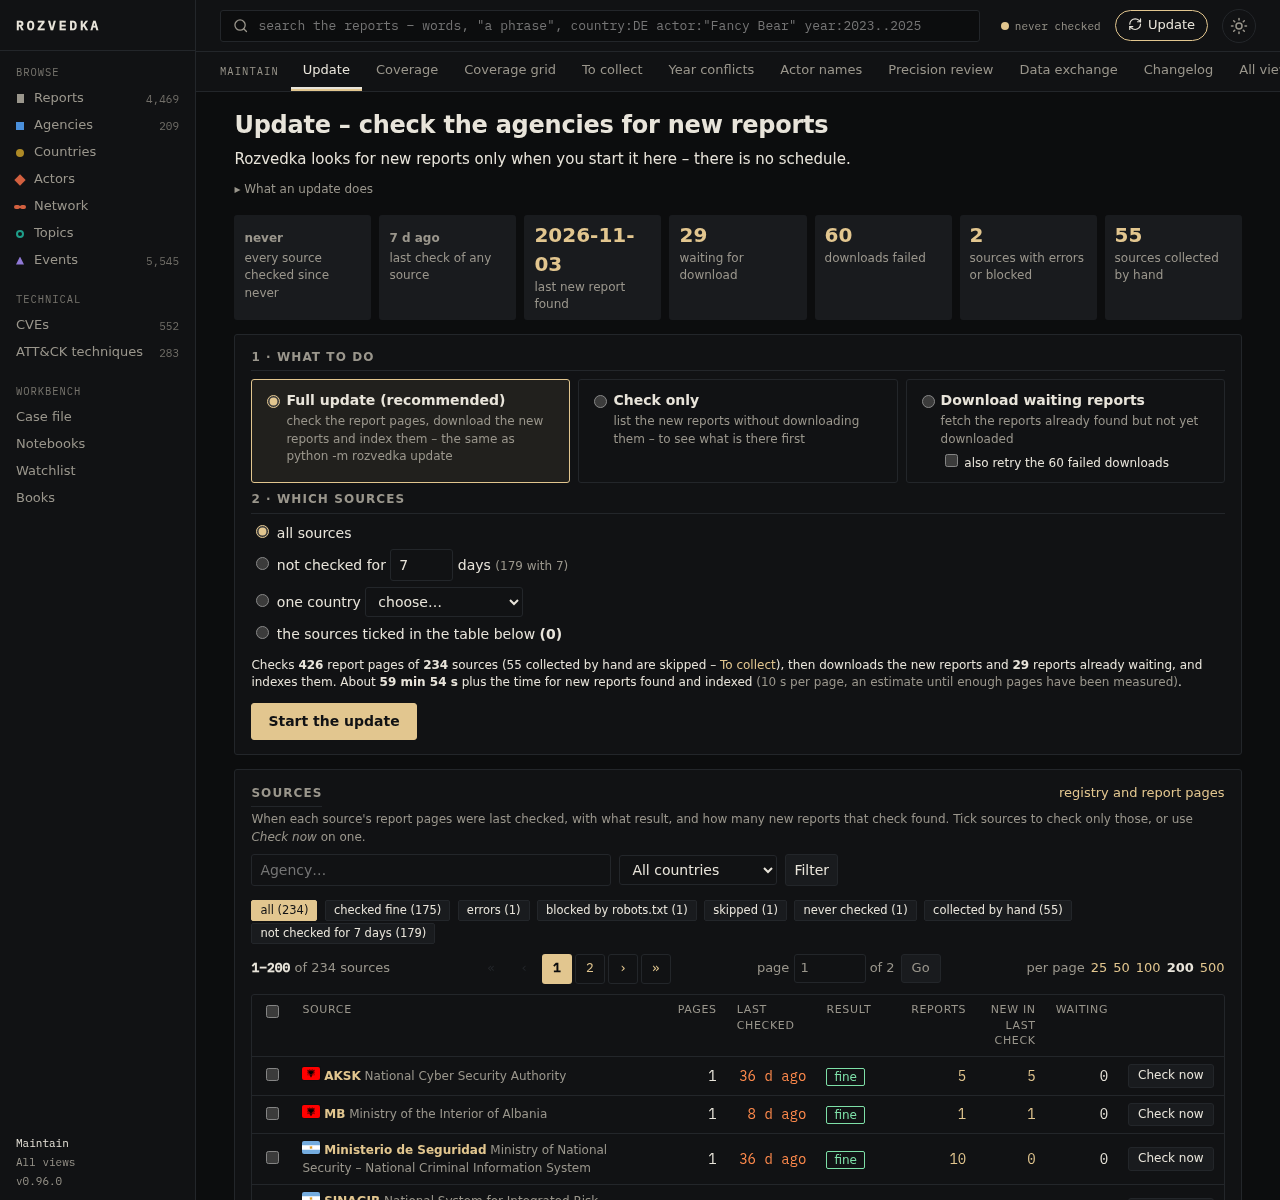
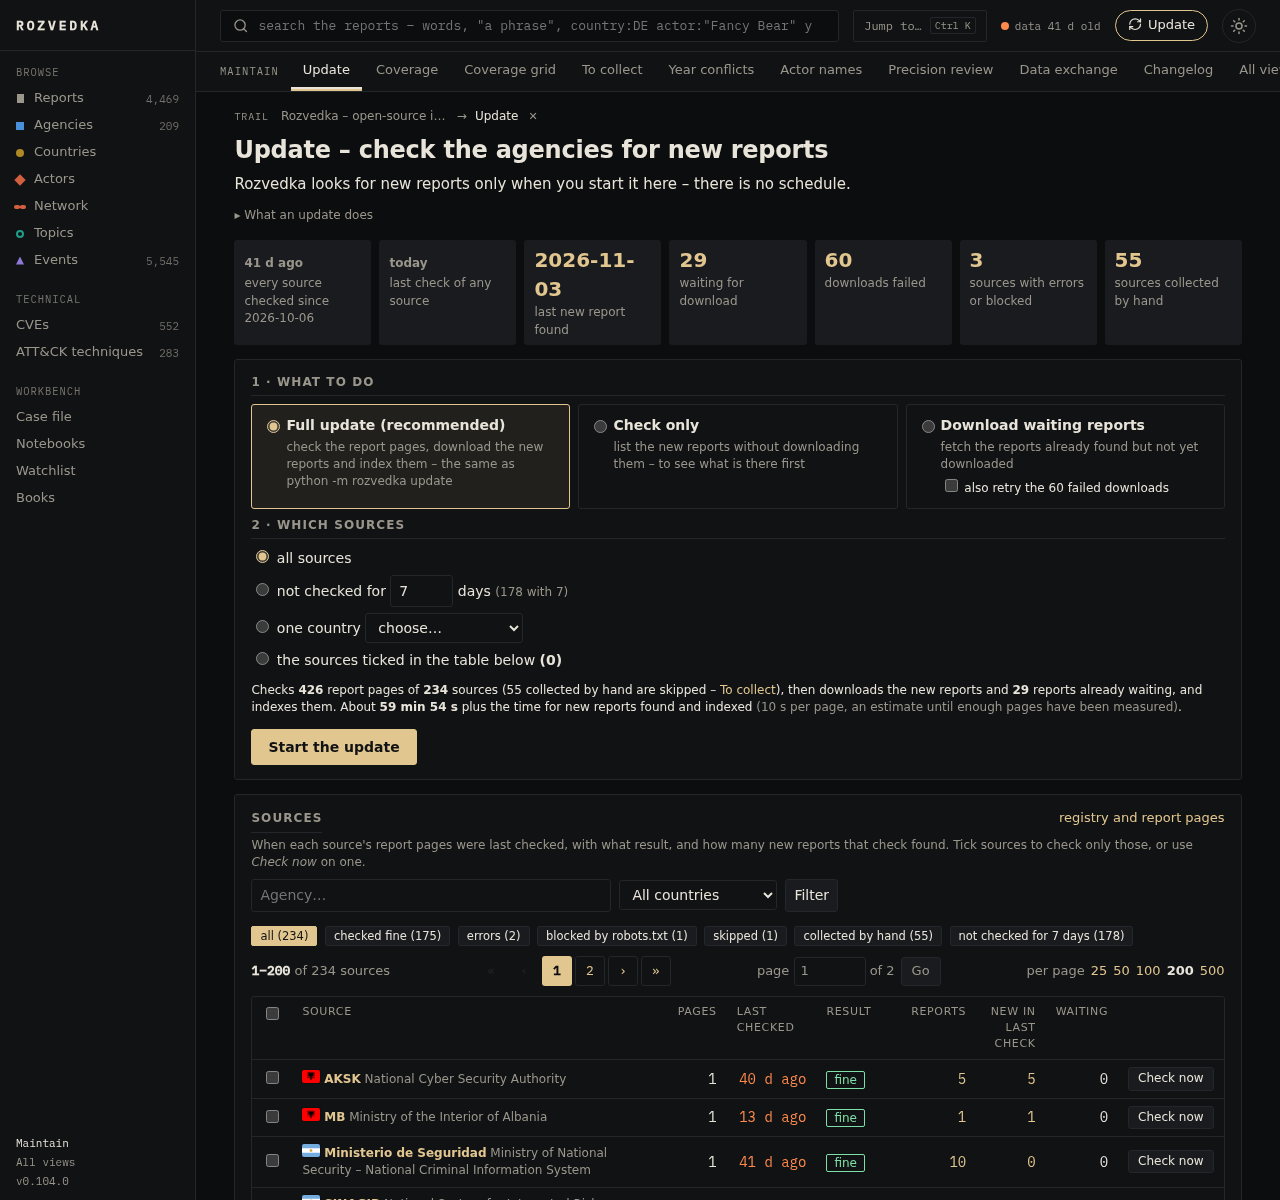
fix: a source never checked no longer blanks the data age (0.104.1)
The header's data age is the oldest of the automatic sources' latest checks; one source never
crawled made it empty, so the header said "never checked". Such sources are now left out and
counted apart (header, Update page). The home line shows both measures, labelled, instead of
only the newest check.

diff --git a/rozvedka/templates/base.html b/rozvedka/templates/base.html
@@ -29,7 +29,7 @@
   {% else %}<span class="top-fill"></span>{% endif %}
   <button type="button" class="jump-open" title="Jump to a country, agency, actor, topic, report or page by its name">Jump to… <kbd>Ctrl K</kbd></button>
   {% set hs = header_status() %}
-  <span class="top-age {{ 'old' if hs.days is not none and hs.days >= 7 }}" title="Every source checked since {{ (hs.last or 'never')[:16].replace('T', ' ') }}; latest check {{ (hs.latest or 'never')[:16].replace('T', ' ') }}"><i aria-hidden="true"></i>{% if hs.days is none %}never checked{% else %}data {{ 'today' if hs.days == 0 else hs.days ~ ' d old' }}{% endif %}</span>
+  <span class="top-age {{ 'old' if hs.days is not none and hs.days >= 7 }}" title="Every source checked since {{ (hs.last or 'never')[:16].replace('T', ' ') }}; latest check {{ (hs.latest or 'never')[:16].replace('T', ' ') }}{% if hs.never %}; {{ hs.never }} source{{ 's' if hs.never != 1 }} never checked (added since){% endif %}"><i aria-hidden="true"></i>{% if hs.days is none %}never checked{% else %}data {{ 'today' if hs.days == 0 else hs.days ~ ' d old' }}{% if hs.never %} · {{ hs.never }} new{% endif %}{% endif %}</span>
   <a class="upd-btn {{ 'on' if request.url.path == '/update' }} {{ 'busy' if hs.job }}" href="/update"
      title="{% if hs.job %}{{ hs.job }} running{% if hs.pct is not none %} – {{ hs.pct }} %{% endif %}{% else %}Check the agencies for new reports{% endif %}">
     <span class="upd-ico" aria-hidden="true">{{ ico("refresh") }}</span> Update{% if hs.job %}

diff --git a/rozvedka/templates/home.html b/rozvedka/templates/home.html
@@ -16,8 +16,11 @@
   <p class="home-what">An open-source intelligence library: the public reports of intelligence, security, cyber and
     civil-protection agencies, with <span class="home-ind">◆ independent think tanks</span> and
     <span class="home-com">■ commercial analysts</span> kept apart from the official ones.</p>
-  <p class="home-state"><i class="{{ 'old' if d.fresh.crawl_days is not none and d.fresh.crawl_days >= 7 }}" aria-hidden="true"></i>last check
-    {% if d.fresh.last_crawl %}<b>{{ d.fresh.last_crawl[:10] }}</b> · {{ d.fresh.crawl_days }} day{{ 's' if d.fresh.crawl_days != 1 }} ago{% else %}<b>never</b>{% endif %}
+  {% set hs = header_status() %}
+  <p class="home-state"><i class="{{ 'old' if hs.days is none or hs.days >= 7 }}" aria-hidden="true"></i>every source checked since
+    {% if hs.last %}<b>{{ hs.last[:10] }}</b> · {{ hs.days }} day{{ 's' if hs.days != 1 }} ago{% else %}<b>never</b>{% endif %}
+    · newest check {% if d.fresh.last_crawl %}<b>{{ d.fresh.last_crawl[:10] }}</b>{% else %}<b>never</b>{% endif %}
+    {%- if hs.never %} · {{ hs.never }} source{{ 's' if hs.never != 1 }} never checked{% endif %}
     · updates run by hand – <a href="/update">Update</a></p>
 </header>
 

diff --git a/rozvedka/templates/update.html b/rozvedka/templates/update.html
@@ -14,7 +14,7 @@
 </details>
 
 <div class="h-counters dx-cards">
-  <a href="#sources"><b>{{ age(since) }}</b><span>every source checked since {{ (since or 'never')[:10] }}</span></a>
+  <a href="#sources"><b>{{ age(since) }}</b><span>every source checked since {{ (since or 'never')[:10] }}{% if never %} · {{ never }} never checked{% endif %}</span></a>
   <a href="#sources"><b>{{ age(fresh.last_crawl) }}</b><span>last check of any source</span></a>
   <a href="/new"><b>{{ (fresh.last_discovered or 'never')[:10] }}</b><span>last new report found</span></a>
   <a href="/documents?status=new"><b>{{ counts.get('new', 0)|num }}</b><span>waiting for download</span></a>

diff --git a/rozvedka/updater.py b/rozvedka/updater.py
@@ -29,10 +29,18 @@ INDEX_STEPS = (("Extracting text and matching topics", "index-topics"), ("Recogn
 
 def all_checked_since(con) -> str | None:
     """How old the data is: the moment by which every source fetched automatically had been checked – the oldest of
-    the sources' latest checks (a single source checked today does not make the whole library fresh)."""
-    return con.execute("""SELECT MIN(latest) FROM (SELECT s.id, MAX(COALESCE(p.last_crawled, '')) latest FROM sources s
-                          JOIN pages p ON p.source_id=s.id AND p.active=1 WHERE s.active=1 AND s.access!='manual'
-                          GROUP BY s.id)""").fetchone()[0] or None
+    the sources' latest checks (a single source checked today does not make the whole library fresh). A source never
+    checked yet (just added) is left out and counted by `never_checked`, so it does not blank the age of all the rest."""
+    return con.execute(f"""SELECT MIN(latest) FROM ({_LATEST}) WHERE latest != ''""").fetchone()[0] or None
+
+
+def never_checked(con) -> int:
+    """How many sources fetched automatically have never been checked."""
+    return con.execute(f"SELECT COUNT(*) FROM ({_LATEST}) WHERE latest = ''").fetchone()[0]
+
+
+_LATEST = """SELECT s.id, MAX(COALESCE(p.last_crawled, '')) latest FROM sources s
+             JOIN pages p ON p.source_id=s.id AND p.active=1 WHERE s.active=1 AND s.access!='manual' GROUP BY s.id"""
 
 
 def seconds_per_page(con) -> float:

diff --git a/tests/test_update.py b/tests/test_update.py
@@ -148,3 +148,18 @@ def test_data_age_is_the_oldest_source_check(library):
     from rozvedka import app as app_module
     app_module._age_cache.clear()                                # the header caches the age for 30 s
     assert "data 20 d old" in TestClient(app_module.app).get("/").text   # the header's data age
+
+
+def test_a_source_never_checked_does_not_blank_the_data_age(library):
+    with db.session() as con:                                  # a source added since the last update: never crawled
+        con.execute("INSERT INTO sources(id,key,country,agency,type,access,active) VALUES(9,'US/New','US','New','think-tank','auto',1)")
+        con.execute("INSERT INTO pages(id,source_id,url,lang,verified,active) VALUES(9,9,'https://new/a','en',1,1)")
+        con.commit()
+        assert updater.all_checked_since(con) == con.execute("SELECT MAX(last_crawled) FROM pages WHERE source_id=1").fetchone()[0]
+        assert updater.never_checked(con) == 1                 # the new one – not Säpo (collected by hand)
+    from rozvedka import app as app_module
+    app_module._age_cache.clear()
+    client = TestClient(app_module.app)
+    home = client.get("/").text
+    assert "data 20 d old · 1 new" in home and "1 source never checked" in home
+    assert "1 never checked" in client.get("/update").text

diff --git a/rozvedka/web.py b/rozvedka/web.py
@@ -190,13 +190,14 @@ def header_status() -> dict:
     if now - _age_cache.get("at", 0) > 30:
         with db.session() as con:
             since = updater.all_checked_since(con)
+            never = updater.never_checked(con)
             latest = con.execute("SELECT MAX(last_crawled) FROM pages").fetchone()[0]
-        _age_cache.update(at=now, last=since, latest=latest,
+        _age_cache.update(at=now, last=since, latest=latest, never=never,
                           days=(dt.datetime.now() - dt.datetime.fromisoformat(since[:19])).days if since else None)
     j = jobrunner.state()
     running = j if j and j["status"] == "running" else None
     pct = int(100 * running["progress"]["done"] / running["progress"]["total"]) if running and running["progress"]["total"] else None
-    return {"last": _age_cache["last"], "latest": _age_cache["latest"], "days": _age_cache["days"],
+    return {"last": _age_cache["last"], "latest": _age_cache["latest"], "days": _age_cache["days"], "never": _age_cache["never"],
             "job": running and running["title"], "pct": pct}
 
 

diff --git a/rozvedka/routes/update.py b/rozvedka/routes/update.py
@@ -27,13 +27,18 @@ def update_page(request: Request, country: str = "", state: str = "", q: str = "
         "states": Counter(r["state"] for r in allrows), "stale_n": sum(1 for r in allrows if r["stale"] and r["state"] != "manual"),
         "countries": sorted({r["country"] for r in allrows}, key=lambda k: COUNTRY_NAMES.get(k, k)),
         "fresh": fresh, "counts": counts, "history": updater.history(), "logs": [p.name for p in logs],
-        "since": _since(),
+        "since": _since(), "never": _never(),
         "actions": updater.ACTIONS, "plan": updater.plan()})
 
 
 def _since() -> str | None:
     with db.session() as con:
         return updater.all_checked_since(con)
+
+
+def _never() -> int:
+    with db.session() as con:
+        return updater.never_checked(con)
 
 
 def _update_form(action: str, scope: str, country: str, sources: str, stale_days: str, retry_failed: str) -> dict:

diff --git a/tests/test_home.py b/tests/test_home.py
@@ -109,7 +109,7 @@ def test_every_dashboard_count_matches_its_list(library):
 def test_pages_and_redirects(library):
     client = TestClient(app())
     r = client.get("/")
-    assert r.status_code == 200 and "open-source intelligence library" in r.text and "last check" in r.text and "h-radar" not in r.text and 'action="/search"' in r.text
+    assert r.status_code == 200 and "open-source intelligence library" in r.text and "every source checked since" in r.text and "h-radar" not in r.text and 'action="/search"' in r.text
     r = client.get("/?country=CZ&topic=drones", follow_redirects=False)        # old Documents links keep working
     assert r.status_code == 307 and r.headers["location"] == "/documents?country=CZ&topic=drones"
     r = client.get("/search", params={"q": "country:CZ Annual"}, follow_redirects=False)

diff --git a/rozvedka/__init__.py b/rozvedka/__init__.py
@@ -5,7 +5,7 @@ from pathlib import Path
 
 # Single source of the release version (Semantic Versioning, https://semver.org).
 # Do not edit by hand: run `python3 tools/bump_version.py patch|minor|major` (see CHANGELOG.md, "Versioning").
-__version__ = "0.104.0"
+__version__ = "0.104.1"
 
 
 @lru_cache(maxsize=1)

diff --git a/CHANGELOG.md b/CHANGELOG.md
@@ -27,6 +27,16 @@ From 0.9.1 on, the significance of a change decides which part of `MAJOR.MINOR.P
 
 ## [Unreleased]
 
+## [0.104.1] – 2026-11-16
+
+### Fixed
+- The header said "never checked" as soon as one source fetched automatically had never been crawled (a source added since
+  the last update), though every other source had been checked. The data age now leaves such sources out and counts them
+  apart: "data 41 d old · 1 new", with the source count in the tooltip and on the Update page.
+- The home page's head line gave the newest check of any source ("last check … 13 days ago"), which made a library checked
+  41 days ago look fresh. It now gives both measures, labelled: every source checked since … and the newest check, plus any
+  source never checked – the same measure as the header.
+
 ## [0.104.0] – 2026-11-13
 
 ### Added
@@ -2216,7 +2226,8 @@ From 0.9.1 on, the significance of a change decides which part of `MAJOR.MINOR.P
 - Crawler, polite downloader (robots.txt, per-host delay, PDF check, de-duplication) and FastAPI web portal.
 - systemd user units for the portal and a weekly update timer.
 
-[Unreleased]: https://github.com/iiogurt/Rozvedka/compare/v0.104.0...HEAD
+[Unreleased]: https://github.com/iiogurt/Rozvedka/compare/v0.104.1...HEAD
+[0.104.1]: https://github.com/iiogurt/Rozvedka/compare/v0.104.0...v0.104.1
 [0.104.0]: https://github.com/iiogurt/Rozvedka/compare/v0.103.0...v0.104.0
 [0.103.0]: https://github.com/iiogurt/Rozvedka/compare/v0.102.0...v0.103.0
 [0.102.0]: https://github.com/iiogurt/Rozvedka/compare/v0.101.1...v0.102.0
